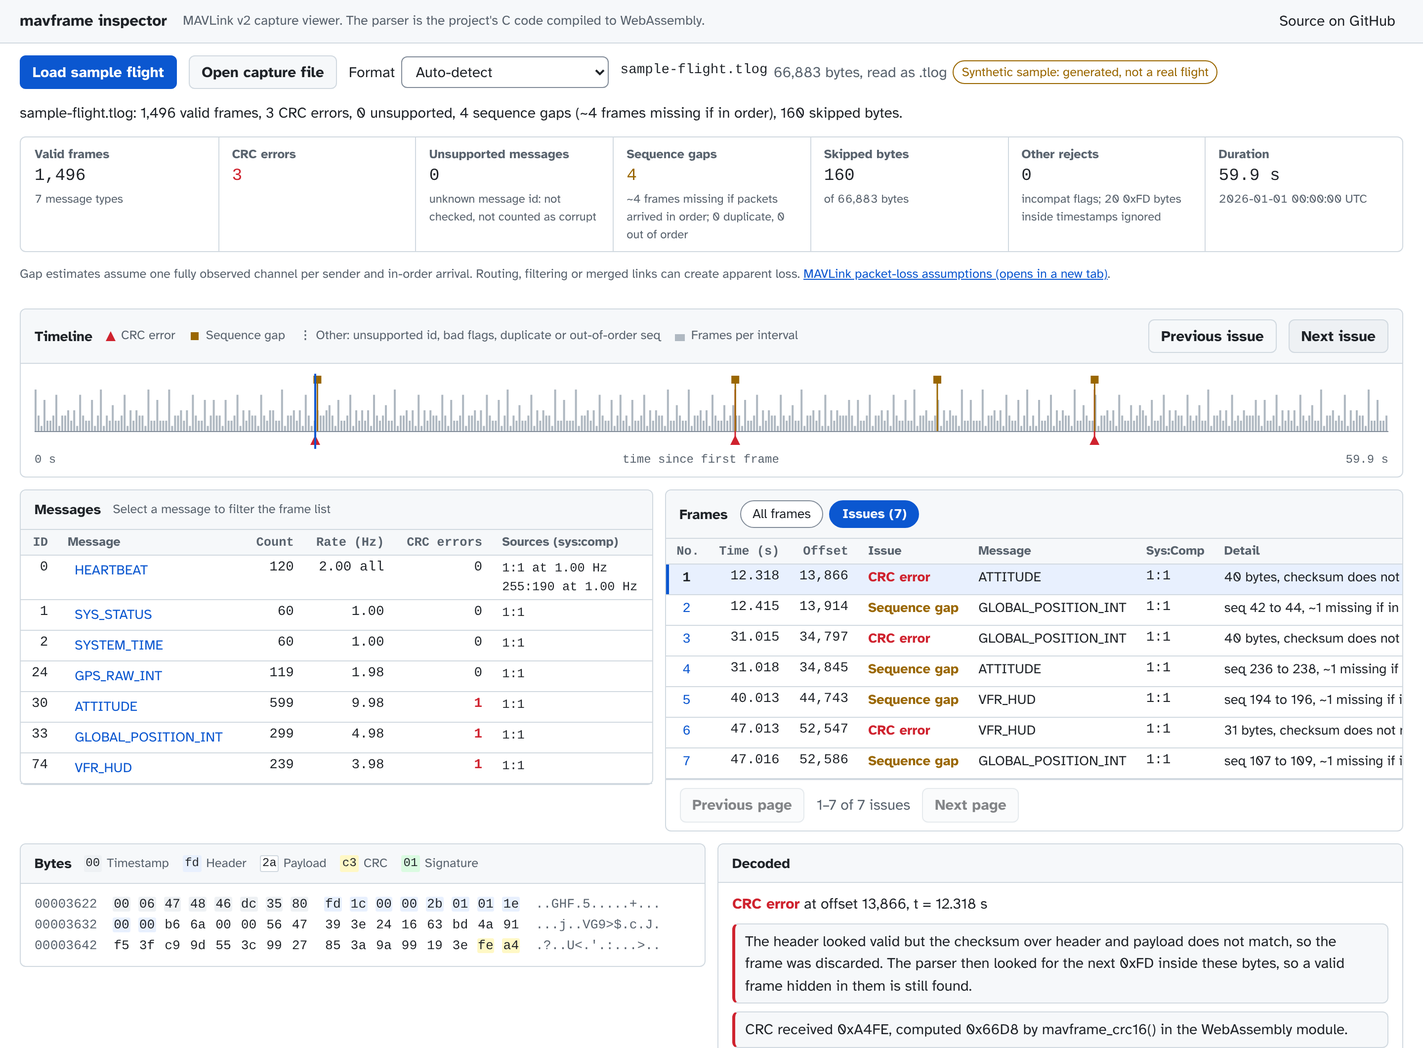
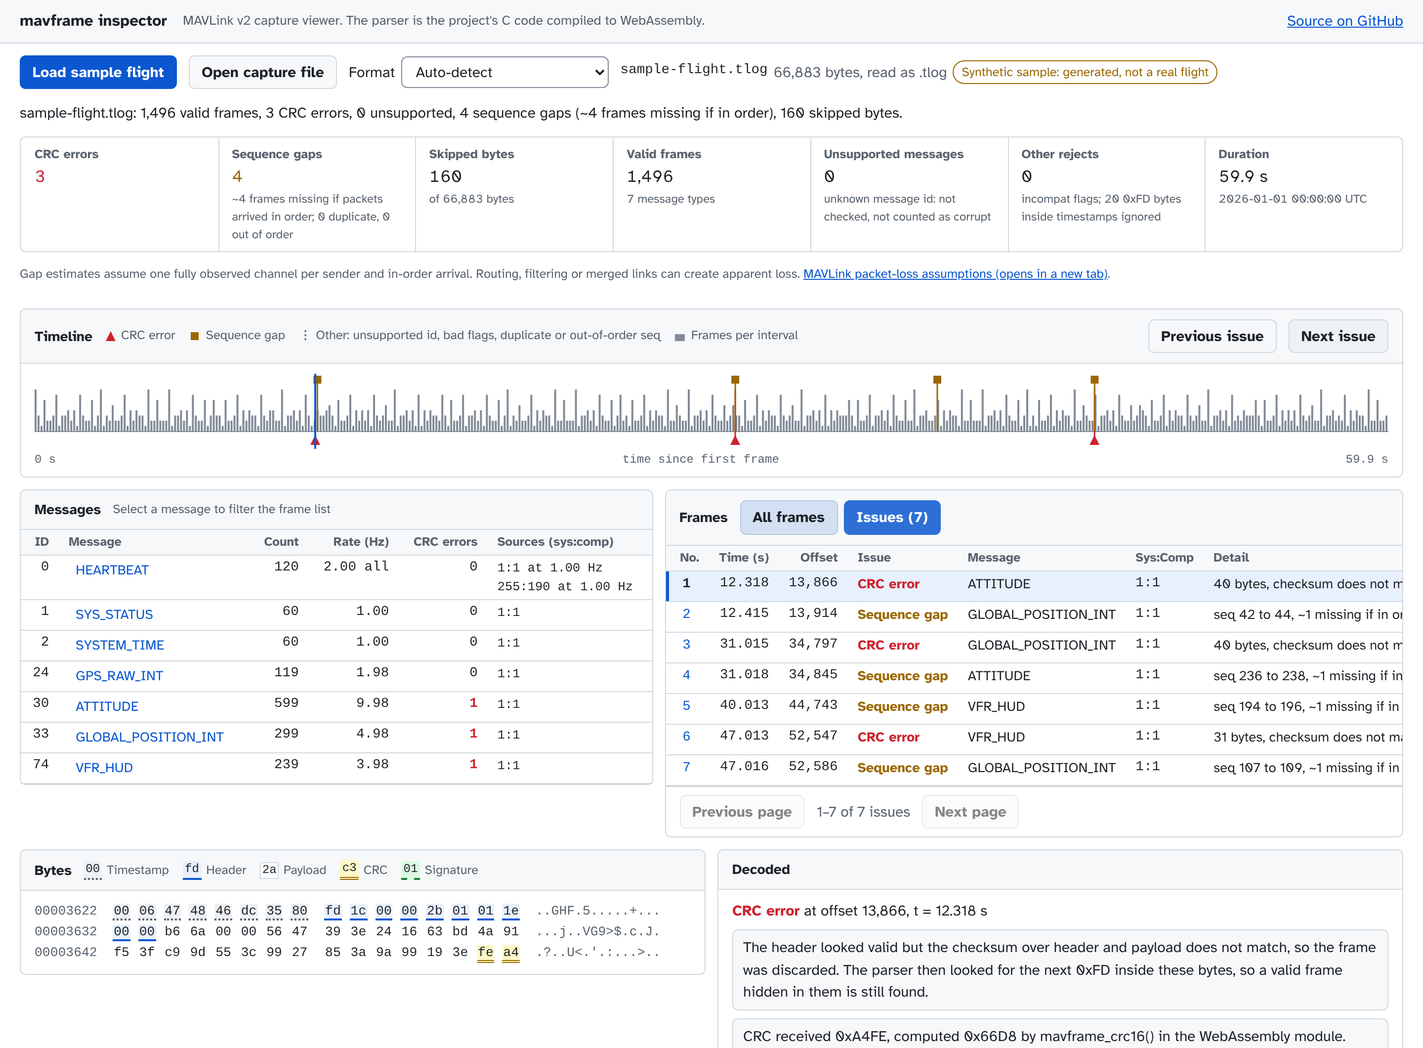
Inspector design pass: 3:1 timeline, patterned hex regions, DESIGN.md (#5)
* Inspector design pass: 3:1 timeline bars, patterned hex regions, DESIGN.md

- Timeline density bars and legend glyph use the border-strong values
  (3.45/3.57:1 on the timeline, was 2.01/2.28:1).
- Hex byte regions get an underline pattern each (dotted, solid, none,
  double, dashed) with 3:1+ contrast, plus a visually hidden region name
  before each region's first byte. Legend swatches show the same marks.
- Numeric column headers use the UI face like the other headers; numeric
  cells stay monospace.
- Shared components (ui.css): underlined accent "Source on GitHub" link
  outside <nav>, .btn[aria-pressed] replaces the .chip toggles, primary
  hover/active states, 120 ms button transition only without reduced
  motion, root font 93.75% so the browser text size applies.
- Polish: summary strip leads with CRC errors, Sequence gaps, Skipped
  bytes; summary values in the UI face; no coloured left stripes on notes.
- DESIGN.md documents tokens, measured contrast, motion and known gaps.
- Tests compute contrast, region marks, header faces, component shape
  and root font size from the rendered page in light and dark.

docs/mavframe.wasm is unchanged.

Claude-Session: https://claude.ai/code/session_01SBDy3AAAGa7xAC8BzFcKKn

* test_ui: wait for button transitions with allSettled, not Promise.all

On CI at 375 px the re-render after "Next issue" restyles a button while
its 120 ms colour transition is running. Chromium cancels that transition
[…]

diff --git a/docs/css/inspector.css b/docs/css/inspector.css
@@ -1,7 +1,7 @@
 /* App-specific styles for the mavframe inspector. Base tokens come from ui.css. */
-:root { --seg-ts: #eef1f4; --seg-hdr: #e8f0fe; --seg-pay: #ffffff; --seg-crc: #fff8c5; --seg-sig: #dafbe1; --density: #afb8c1; }
+:root { --seg-ts: #eef1f4; --seg-hdr: #e8f0fe; --seg-pay: #ffffff; --seg-crc: #fff8c5; --seg-sig: #dafbe1; --density: #818b98; }
 @media (prefers-color-scheme: dark) {
-  :root { --seg-ts: #21262d; --seg-hdr: #121d2f; --seg-pay: #0d1117; --seg-crc: #272115; --seg-sig: #122117; --density: #484f58; }
+  :root { --seg-ts: #21262d; --seg-hdr: #121d2f; --seg-pay: #0d1117; --seg-crc: #272115; --seg-sig: #122117; --density: #656c76; }
 }
 
 [hidden] { display: none !important; }
@@ -10,12 +10,11 @@ h1, h2 { margin: 0; line-height: 1.3; }
 h1.name { font-size: 1.05rem; }
 h2 { font-size: .95rem; }
 .app-header { flex-wrap: wrap; row-gap: 4px; }
-.app-header nav { margin-left: auto; }
 .tagline { font-size: .9em; }
 main { padding: 12px 20px 20px; display: grid; gap: 12px; }
 .small { font-size: .85em; }
 .pad { padding: 12px 14px; margin: 0; }
-.mono, .num, td.mono { font-family: var(--mono); font-variant-numeric: tabular-nums; }
+.mono, td.num, td.mono { font-family: var(--mono); font-variant-numeric: tabular-nums; }
 
 /* Toolbar */
 .toolbar { display: flex; flex-wrap: wrap; align-items: center; gap: 8px 12px; }
@@ -36,7 +35,7 @@ progress { width: min(320px, 100%); height: 10px; accent-color: var(--accent); }
 .metrics { display: grid; grid-template-columns: repeat(auto-fit, minmax(150px, 1fr)); margin: 0; border: 1px solid var(--border); border-radius: var(--radius); background: var(--bg); overflow: hidden; }
 .metrics > div { padding: 8px 14px; min-width: 0; box-shadow: 1px 0 0 var(--border), 0 1px 0 var(--border); }
 .metrics dt { font-size: .85em; color: var(--fg-muted); font-weight: 700; }
-.metrics dd { margin: 0; font-family: var(--mono); font-size: 1.15rem; font-variant-numeric: tabular-nums; overflow-wrap: anywhere; }
+.metrics dd { margin: 0; font-size: 1.15rem; font-variant-numeric: tabular-nums; overflow-wrap: anywhere; }
 .metrics dd .sub { display: block; overflow-wrap: anywhere; font-family: var(--font); font-size: .8rem; color: var(--fg-muted); }
 .metrics dd.bad { color: var(--bad); }
 .metrics dd.warn { color: var(--warn); }
@@ -52,7 +51,7 @@ progress { width: min(320px, 100%); height: 10px; accent-color: var(--accent); }
 .g-gap { fill: var(--warn); }
 .g-density { fill: var(--density); }
 /* Legend samples look like the hex bytes they describe. */
-.swatch { display: inline-block; padding: 0 2px; border-radius: 2px; color: var(--fg); font-size: .95em; line-height: 1.4; }
+.swatch { display: inline-block; padding: 0 2px; border-radius: 2px 2px 0 0; color: var(--fg); font-size: .95em; line-height: 1.4; }
 .swatch.seg-pay { box-shadow: inset 0 0 0 1px var(--border); }
 .cap-note { margin: 4px 0 0; }
 .scroll-hint { display: none; }
@@ -99,31 +98,30 @@ tr.selected, tr.selected:hover { background: var(--accent-subtle); box-shadow: i
 .kind.reject, .kind.unsupported, .kind.duplicate, .kind.reorder { color: var(--fg-muted); font-weight: 700; }
 .note-gap { color: var(--warn); }
 
-.chips { display: inline-flex; gap: 6px; }
-.chip { min-height: 28px; padding: 2px 12px; border: 1px solid var(--border-strong); border-radius: 2em; background: var(--bg); color: var(--fg); font: inherit; font-size: .9em; cursor: pointer; }
-.chip[aria-pressed="true"] { background: var(--accent); border-color: var(--accent); color: var(--accent-fg); font-weight: 700; }
+.toggles { display: inline-flex; gap: 6px; }
 .filter { display: inline-flex; align-items: center; gap: 8px; font-size: .9em; }
 .small-btn { min-height: 28px; padding: 2px 10px; font-size: .9em; }
 .pager { display: flex; flex-wrap: wrap; align-items: center; gap: 8px 12px; padding: 8px 14px; border-top: 1px solid var(--border); }
 
 /* Hex dump */
-.hex { margin: 0; padding: 10px 14px; overflow: auto; font-size: .88rem; line-height: 1.6; white-space: pre; }
+.hex { position: relative; margin: 0; padding: 10px 14px; overflow: auto; font-size: .88rem; line-height: 1.6; white-space: pre; }
 .hex .off { color: var(--fg-muted); }
-.hex .b { padding: 0 1px; border-radius: 2px; }
-.seg-ts { background: var(--seg-ts); }
-.seg-hdr { background: var(--seg-hdr); }
+.hex .b { padding: 0 1px; border-radius: 2px 2px 0 0; }
+/* The tints alone are about 1.1:1 apart, so each region also gets its own
+   underline pattern (3:1 or more against the tint and the page); payload is
+   the unmarked region. The legend swatches use the same classes. */
+.seg-ts { background: var(--seg-ts); border-bottom: 2px dotted var(--fg-muted); }
+.seg-hdr { background: var(--seg-hdr); border-bottom: 2px solid var(--accent); }
 .seg-pay { background: var(--seg-pay); }
-.seg-crc { background: var(--seg-crc); }
-.seg-sig { background: var(--seg-sig); }
+.seg-crc { background: var(--seg-crc); border-bottom: 3px double var(--warn); }
+.seg-sig { background: var(--seg-sig); border-bottom: 2px dashed var(--ok); }
 .hex .ascii { color: var(--fg-muted); }
 
 /* Decoded pane */
 .decoded { overflow: auto; position: relative; }
 .decoded h3 { font-size: .9rem; margin: 0; padding: 8px 14px 4px; }
 .decoded .lead { margin: 0; padding: 10px 14px 4px; }
-.decoded .note { margin: 4px 14px 8px; padding: 6px 10px; border: 1px solid var(--border); border-left: 3px solid var(--border-strong); border-radius: var(--radius); background: var(--bg-subtle); }
-.decoded .note.bad { border-left-color: var(--bad); }
-.decoded .note.warn { border-left-color: var(--warn); }
+.decoded .note { margin: 4px 14px 8px; padding: 6px 10px; border: 1px solid var(--border); border-radius: var(--radius); background: var(--bg-subtle); }
 .decoded table { margin-bottom: 6px; }
 .decoded table.dense td { white-space: normal; overflow-wrap: anywhere; }
 .decoded td.val { font-family: var(--mono); white-space: normal; overflow-wrap: anywhere; min-width: 12ch; }
@@ -145,4 +143,4 @@ tr.selected, tr.selected:hover { background: var(--accent-subtle); box-shadow: i
 }
 
 /* Shown only when JavaScript is off. */
-.noscript { margin: 12px 0; padding: 8px 12px; border: 1px solid var(--border); border-left: 4px solid var(--warn); border-radius: var(--radius); background: var(--warn-subtle); color: var(--fg); max-width: 80ch; }
+.noscript { margin: 12px 0; padding: 8px 12px; border: 1px solid var(--border); border-radius: var(--radius); background: var(--warn-subtle); color: var(--fg); max-width: 80ch; }

diff --git a/docs/css/ui.css b/docs/css/ui.css
@@ -8,7 +8,7 @@
   --border:#d1d9e0; --border-strong:#818b98; --accent:#0b57d0; --accent-fg:#ffffff; --accent-subtle:#e8f0fe;
   --ok:#1a7f37; --ok-subtle:#dafbe1; --bad:#cf222e; --bad-subtle:#ffebe9; --warn:#9a6700; --warn-subtle:#fff8c5;
   --focus:#0b57d0; --radius:6px; --font:"Atkinson Hyperlegible",system-ui,-apple-system,"Segoe UI",Roboto,sans-serif;
-  --mono:ui-monospace,SFMono-Regular,Menlo,Consolas,"Liberation Mono",monospace; --fs:15px;
+  --mono:ui-monospace,SFMono-Regular,Menlo,Consolas,"Liberation Mono",monospace; --fs:93.75%;
   color-scheme:light dark;
 }
 @media (prefers-color-scheme:dark){:root{
@@ -21,7 +21,9 @@ code,kbd,pre,.mono{font-family:var(--mono);font-size:.92em}
 a{color:var(--accent)} :focus-visible{outline:2px solid var(--focus);outline-offset:2px;border-radius:2px}
 .skip{position:absolute;left:-9999px}.skip:focus{left:8px;top:8px;z-index:9;background:var(--bg);padding:8px 12px;border:1px solid var(--border)}
 .btn{display:inline-flex;align-items:center;gap:6px;min-height:32px;padding:5px 12px;border:1px solid var(--border);border-radius:var(--radius);background:var(--bg-subtle);color:var(--fg);font:inherit;font-weight:700;cursor:pointer;text-decoration:none}
-.btn:hover{background:var(--bg-inset)} .btn.primary{background:var(--accent);border-color:var(--accent);color:var(--accent-fg)}
+.btn:hover,.btn:active{background:var(--bg-inset)} .btn.primary{background:var(--accent);border-color:var(--accent);color:var(--accent-fg)}
+.btn.primary:hover{filter:brightness(.92)} .btn.primary:active{filter:brightness(.85)}
+.btn[aria-pressed="true"]{background:var(--accent);border-color:var(--accent);color:var(--accent-fg)}
 .btn.danger{color:var(--bad)} .btn[disabled]{opacity:.55;cursor:not-allowed}
 .input,select,textarea{font:inherit;color:var(--fg);background:var(--bg);border:1px solid var(--border-strong);border-radius:var(--radius);padding:5px 10px;min-height:32px}
 .label{display:inline-flex;align-items:center;gap:4px;padding:0 8px;border:1px solid var(--border);border-radius:2em;font-size:.85em;line-height:22px}
@@ -33,5 +35,7 @@ th{font-size:.85em;color:var(--fg-muted);font-weight:700;background:var(--bg-sub
 .app-header{display:flex;align-items:center;gap:16px;padding:10px 20px;border-bottom:1px solid var(--border);background:var(--bg-subtle)}
 .app-header .name{font-weight:700} .app-header nav a{color:var(--fg);text-decoration:none;padding:6px 8px;border-radius:var(--radius)}
 .app-header nav a[aria-current="page"]{box-shadow:inset 0 -2px 0 var(--accent)}
+.app-header .repo{margin-left:auto;color:var(--accent);text-decoration:underline}
 .muted{color:var(--fg-muted)} .sr-only{position:absolute;width:1px;height:1px;overflow:hidden;clip:rect(0 0 0 0);white-space:nowrap}
+@media (prefers-reduced-motion:no-preference){.btn{transition:background-color 120ms,border-color 120ms}}
 @media (prefers-reduced-motion:reduce){*{animation:none!important;transition:none!important}}

diff --git a/docs/index.html b/docs/index.html
@@ -16,7 +16,7 @@
 <header class="app-header">
   <h1 class="name">mavframe inspector</h1>
   <span class="muted tagline">MAVLink v2 capture viewer. The parser is the project's C code compiled to WebAssembly.</span>
-  <nav aria-label="Project"><a href="https://github.com/anirudh763/mavframe">Source on GitHub</a></nav>
+  <a class="repo" href="https://github.com/anirudh763/mavframe">Source on GitHub</a>
 </header>
 
 <main id="main">
@@ -46,11 +46,11 @@
   <section aria-labelledby="h-summary">
     <h2 id="h-summary" class="sr-only">Summary</h2>
     <dl class="metrics" id="metrics">
-      <div><dt>Valid frames</dt><dd id="m-frames">–</dd></div>
       <div><dt>CRC errors</dt><dd id="m-crc">–</dd></div>
-      <div><dt>Unsupported messages</dt><dd id="m-unsupported">–</dd></div>
       <div><dt>Sequence gaps</dt><dd id="m-gaps" aria-describedby="gap-assumptions">–</dd></div>
       <div><dt>Skipped bytes</dt><dd id="m-skipped">–</dd></div>
+      <div><dt>Valid frames</dt><dd id="m-frames">–</dd></div>
+      <div><dt>Unsupported messages</dt><dd id="m-unsupported">–</dd></div>
       <div><dt>Other rejects</dt><dd id="m-rejects">–</dd></div>
       <div><dt>Duration</dt><dd id="m-duration">–</dd></div>
     </dl>
@@ -96,9 +96,9 @@
     <section class="box" aria-labelledby="h-frames">
       <div class="box-header bar">
         <h2 id="h-frames">Frames</h2>
-        <div class="chips" role="group" aria-label="List">
-          <button type="button" class="chip" id="view-frames" aria-pressed="true">All frames</button>
-          <button type="button" class="chip" id="view-issues" aria-pressed="false">Issues</button>
+        <div class="toggles" role="group" aria-label="List">
+          <button type="button" class="btn" id="view-frames" aria-pressed="true">All frames</button>
+          <button type="button" class="btn" id="view-issues" aria-pressed="false">Issues</button>
         </div>
         <span id="filter" class="filter" hidden>
           <span id="filter-text"></span>
@@ -123,7 +123,7 @@
     <section class="box" aria-labelledby="h-bytes">
       <div class="box-header bar">
         <h2 id="h-bytes">Bytes</h2>
-        <ul class="legend" aria-label="Byte colours">
+        <ul class="legend" aria-label="Byte regions">
           <li><span class="swatch mono seg-ts" aria-hidden="true">00</span>Timestamp</li>
           <li><span class="swatch mono seg-hdr" aria-hidden="true">fd</span>Header</li>
           <li><span class="swatch mono seg-pay" aria-hidden="true">2a</span>Payload</li>

diff --git a/docs/js/app.js b/docs/js/app.js
@@ -518,6 +518,8 @@ function renderHex(start, end, segs) {
     for (let o = row; o < row + 16; o++) {
       if (o < end) {
         const s = segOf(o);
+        // Screen readers get the region name where the region starts; sighted users get the underline pattern.
+        if (s && (o === s.from || o === start)) frag.append(el("span", { class: "sr-only", text: `${s.name}: ` }));
         frag.append(el("span", { class: "b " + (s ? s.cls : ""), title: s ? s.name : null, text: hex2(bytes[o]) }));
         ascii += bytes[o] >= 0x20 && bytes[o] < 0x7f ? String.fromCharCode(bytes[o]) : ".";
       } else {

diff --git a/DESIGN.md b/DESIGN.md
@@ -1,0 +1,104 @@
+---
+version: 1
+name: mavframe inspector
+extends: docs/css/ui.css   # shared base; only what docs/css/inspector.css adds or overrides is listed
+dial: ENERGY 1 / RHYTHM 1 / MOTION 1
+colors:
+  density:  { light: "#818b98", dark: "#656c76", use: "timeline frames-per-interval bars and their legend glyph", src: "inspector.css:2,4" }
+  seg-ts:   { light: "#eef1f4", dark: "#21262d", use: "hex tint, tlog timestamp bytes (paired with a dotted underline)", src: "inspector.css:2,4" }
+  seg-hdr:  { light: "#e8f0fe", dark: "#121d2f", use: "hex tint, frame header bytes (paired with a solid underline)", src: "inspector.css:2,4" }
+  seg-pay:  { light: "#ffffff", dark: "#0d1117", use: "hex tint, payload bytes (the unmarked region)", src: "inspector.css:2,4" }
+  seg-crc:  { light: "#fff8c5", dark: "#272115", use: "hex tint, CRC bytes (paired with a double underline)", src: "inspector.css:2,4" }
+  seg-sig:  { light: "#dafbe1", dark: "#122117", use: "hex tint, signature bytes (paired with a dashed underline)", src: "inspector.css:2,4" }
+  # Everything else (bg, bg-subtle, fg, fg-muted, border, border-strong, accent, ok, warn, bad and their -subtle
+  # variants) is the shared baseline in docs/css/ui.css:6-17.
+contrast:   # WCAG relative luminance, computed from the hex values above and in ui.css
+  - { fg: density,   bg: bg,          light: 3.45, dark: 3.57, need: 3.0, what: "timeline bars (was #afb8c1 / #484f58: 2.01 / 2.28)" }
+  - { fg: density,   bg: bg-subtle,   light: 3.24, dark: 3.26, need: 3.0, what: "legend glyph in the box header" }
+  - { fg: fg-muted,  bg: seg-ts,      light: 5.39, dark: 5.23, need: 3.0, what: "timestamp dotted underline" }
+  - { fg: accent,    bg: seg-hdr,     light: 5.57, dark: 5.45, need: 3.0, what: "header solid underline" }
+  - { fg: warn,      bg: seg-crc,     light: 4.52, dark: 6.33, need: 3.0, what: "CRC double underline" }
+  - { fg: ok,        bg: seg-sig,     light: 4.56, dark: 6.58, need: 3.0, what: "signature dashed underline" }
+  - { fg: accent,    bg: bg,          light: 6.39, dark: 6.11, need: 3.0, what: "header underline against the page under the tint" }
+  - { fg: warn,      bg: bg,          light: 4.87, dark: 7.50, need: 3.0, what: "CRC underline against the page" }
+  - { fg: ok,        bg: bg,          light: 5.08, dark: 7.45, need: 3.0, what: "signature underline against the page" }
+  - { fg: fg,        bg: seg-ts,      light: 13.93, dark: 12.88, need: 4.5, what: "hex text on the darkest tint" }
+  - { fg: fg,        bg: seg-crc,     light: 14.66, dark: 13.52, need: 4.5, what: "hex text on the CRC tint" }
+  - { fg: seg-ts,    bg: bg,          light: 1.13, dark: 1.24, need: none, what: "tints against the page: decorative only, the underline carries the meaning" }
+  - { fg: accent-fg, bg: accent,      light: 6.39, dark: 6.11, need: 4.5, what: "primary and pressed buttons" }
+  - { fg: bad,       bg: bg,          light: 5.36, dark: 5.65, need: 4.5, what: "CRC error counts and labels" }
+  - { fg: warn,      bg: bg,          light: 4.87, dark: 7.50, need: 4.5, what: "sequence gap counts and labels" }
+  - { fg: fg-muted,  bg: bg-subtle,   light: 5.74, dark: 5.94, need: 4.5, what: "legend text, table headers" }
+typography:
+  ui:   { family: "Atkinson Hyperlegible", root: "93.75% (15px at the default 16px; follows the browser setting)", lineHeight: 1.5 }
+  mono: { family: "ui-monospace,SFMono-Regular,Menlo,Consolas,Liberation Mono,monospace", use: "hex dump, offsets, file name, axis labels, numeric table cells (td.num), decoded values" }
+  scale: { h1: 1.05rem, h2: .95rem, h3: .9rem, metric: 1.15rem, body: 1rem, table: .92em, small: .85em, min: "12px (.8rem axis and metric notes)" }
+spacing: [2, 4, 5, 6, 8, 10, 12, 14, 16, 20, 24]
+rounded: { byte: "2px 2px 0 0", md: 6px, label: 2em }   # 2em only on the shared .label ("Synthetic sample")
+elevation: { page: flat, boxes: "1px border, no shadow" }
+motion:
+  default: none
+  allowed: [{ name: ".btn colour change", property: "background-color, border-color", duration: 120ms, iterations: 1, reduce: off, src: "ui.css:40" }]
+components:
+  btn:          { base: "ui.css:23-27", radius: md, minTarget: "32px high", states: [hover, active, focus-visible, disabled, aria-pressed] }
+  view-toggle:  { base: "ui.css .btn[aria-pressed]", markup: "index.html #view-frames/#view-issues in .toggles", states: [pressed, unpressed, focus-visible, disabled] }
+  repo-link:    { base: "ui.css:38 .app-header .repo", states: [default, focus-visible] }
+  metrics:      { base: "inspector.css:35-41", note: "seven cells of one strip; CRC errors, Sequence gaps, Skipped bytes first" }
+  timeline:     { base: "inspector.css:64-75", marks: "bars (density), CRC triangle (bad), gap square (warn), dashed line (other), cursor (accent)" }
+  table-dense:  { base: "ui.css:31-32 + inspector.css:83-88", numeric: "td.num right-aligned, monospace, tabular-nums; all th in the UI face" }
+  rowbtn:       { base: "inspector.css:90-93", radius: md, minTarget: "24x24", states: [hover, focus-visible, aria-pressed, aria-current] }
+  hex-dump:     { base: "inspector.css:107-118", regions: "tint + underline pattern + visually hidden region name before the first byte" }
+  note:         { base: "inspector.css:124", states: [default] }
+  label:        { base: "ui.css:29-30", use: "Synthetic sample warning only" }
+---
+
+# mavframe inspector design
+
+## Overview
+One screen that answers "is this MAVLink capture healthy, and where is it not?". The focal point is the issue count (CRC errors, Sequence gaps, Skipped bytes, shown first in the summary strip) and the timeline that places each issue in time; the frame list, hex dump and decoded pane are the evidence for the selected issue. The page opens with the bundled synthetic sample already parsed, so the first screen is never empty.
+
+## Colors
+The app uses the shared neutral scale and one accent from `docs/css/ui.css`; it adds two kinds of tokens.
+
+- `--density` (bars of frames per interval) is a meaningful graphic, so it must reach 3:1. It reuses the `border-strong` values (#818b98 / #656c76): 3.45:1 / 3.57:1 on the timeline, 3.24:1 / 3.26:1 on the legend row. Earlier values (#afb8c1 / #484f58) were 2.01:1 / 2.28:1.
+- `--seg-*` tint the five byte regions of a frame. The tints are about 1.1:1 against each other and the page, which is too little to carry meaning, so they are decoration and each region also carries an underline pattern in a status or accent colour (table above, every mark 3:1 or more against both its tint and the page). Payload is the region without an underline.
+- Status colours appear only with a word: "CRC error", "Sequence gap", a labelled count, or the timeline legend glyph shape (triangle, square, dashed line).
+
+## Typography
+Atkinson Hyperlegible for all UI text, including table headers and summary numbers (`font-variant-numeric: tabular-nums`). Monospace is reserved for bytes, offsets, IDs, the file name, axis labels and numeric table cells, where column alignment matters. The root size is `93.75%`, so the browser's default text size is respected.
+
+## Layout
+- Header, toolbar, status line, summary strip, timeline box, then two split panes (Messages | Frames) and (Bytes | Decoded).
+- Breakpoints: `max-width: 900px` stacks both pane rows into one column; `max-width: 560px` makes the summary two columns, hides the tagline and shows "Scroll the table sideways for senders".
+- Scrolling regions: the frame list (`.list-wrap`, max 420px, sticky header), the messages table (sideways on narrow screens), the hex dump and the decoded pane. The page itself never scrolls sideways at 320px.
+
+## Elevation and shapes
+Flat. Boxes use a 1px `--border` and the shared 6px radius. Hex bytes use a 2px top radius only, so the underline pattern meets a straight edge.
+
+## Motion
+None by default. Under `prefers-reduced-motion: no-preference`, `.btn` colours change over 120ms (one transition, never looping). Under `reduce`, ui.css turns all transitions and animations off. Nothing else moves.
+
+## Components
+- **Buttons** (`.btn`): default, hover (bg-inset), active, focus-visible (2px accent ring), disabled (55% opacity, not-allowed cursor). `.btn.primary` ("Load sample flight") darkens on hover and press.
+- **View toggles** "All frames" / "Issues (n)": `.btn` with `aria-pressed`; pressed is the accent fill with the accent-fg text (6.39:1 / 6.11:1). Same radius and height as every other button.
+- **Source on GitHub**: `.app-header .repo`, an underlined accent link like every other link on the page.
+- **Row buttons** (`.rowbtn`): row number in the frame list and message name in the messages table; selected rows use `aria-current` or `aria-pressed`, bold text and the selected-row background.
+- **Selected row**: accent-subtle background plus a 3px accent inset on the left. Reason for the stripe: it is the one place the timeline cursor, hex dump and decoded pane all point to, and the row number also turns bold, so the state is not carried by colour alone.
+- **Hex dump**: per byte, the region tint, the underline pattern and a mouse `title`; before the first byte of each region, a visually hidden name ("header: ", "CRC: ") for screen readers.
+- **Notes** in the decoded pane: bordered boxes on bg-subtle; the lead sentence above them states the issue kind in words.
+
+## States
+- Empty: before any capture, "Select a frame." in the hex pane and "Select a frame or an issue." in the decoded pane; "No issues: every frame passed its CRC and no sequence numbers were skipped." in the issue list.
+- Loading: one `role="status"` line ("Loading sample-flight.tlog…", then the result sentence), a determinate `<progress>` for large files and a Cancel button.
+- Error: the status line in the bad colour and bold, with the cause and the next step (empty file, not MAVLink, too large, network failure).
+- No JavaScript: a `<noscript>` paragraph on warn-subtle explains why nothing works and names the command-line alternative.
+
+## Do and don't
+- Do pair every status colour with a word or a glyph shape; do measure any new tint or mark before adding it here.
+- Do keep monospace for bytes and aligned numbers only; headers and summary values stay in the UI face.
+- Don't add a second accent, pills other than the shared `.label`, or a looping animation for "live" parsing.
+
+## Known gaps
+- Copying text from the hex dump also copies the visually hidden region names ("header: ").
+- The messages table header is `position: sticky`, but its container only scrolls sideways, so the header never actually sticks there (it does in the frame list).
+- Region names in the hex dump have only been checked with automated tests (axe-core and Playwright); a manual screen-reader check has not been run.
